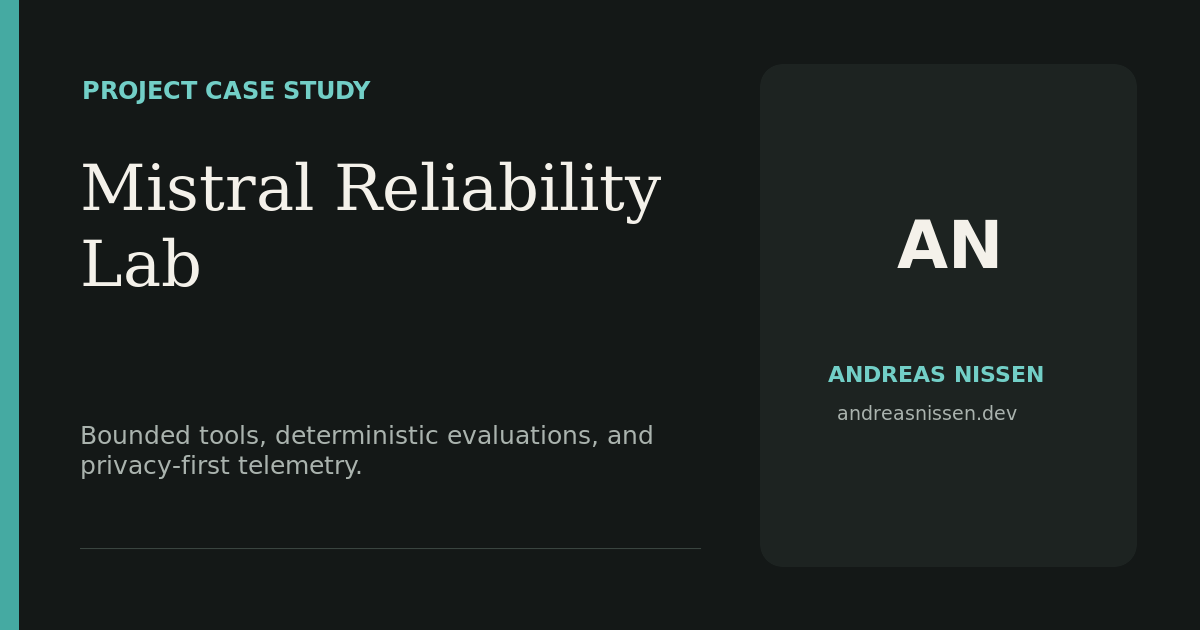
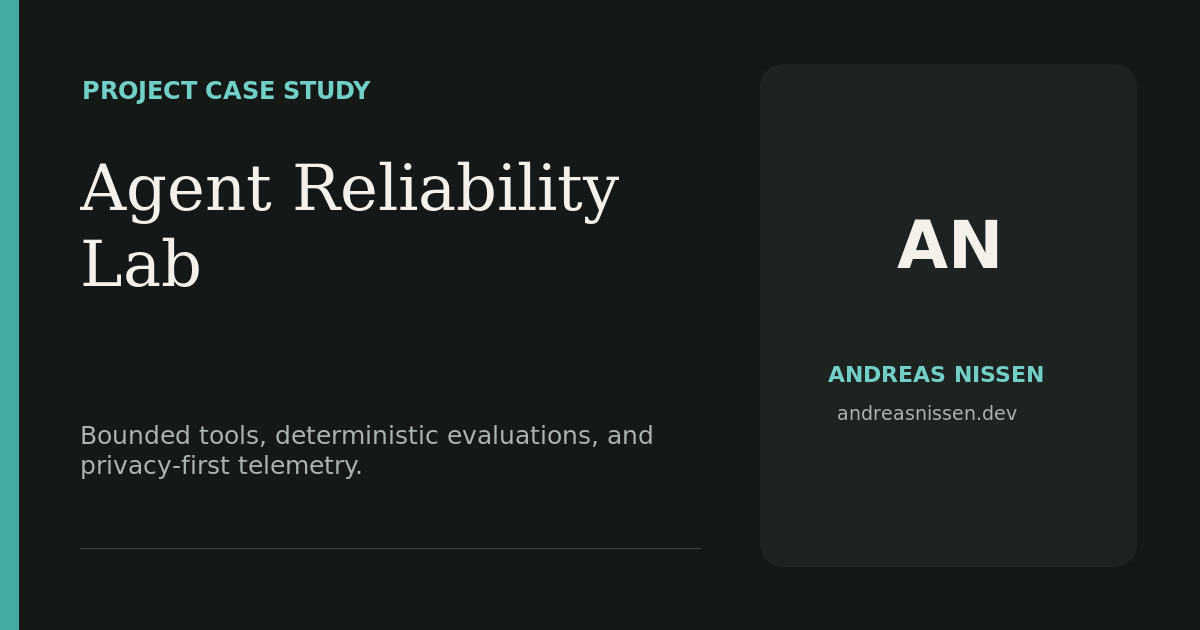
Lead the public evidence path with capability, not a provider name (#45)
Rename the portfolio-facing Mistral Reliability Lab identity to Agent Reliability Lab while preserving accurate provider evidence, update generated and hand-authored assets, remove the stale provider-led card preview, synchronize cross-references, and codify the complete rename sweep.

Changed region(s): [[0.0617, 0.2413, 0.555, 0.3619]]

diff --git a/content/projects/mistral-playground.md b/content/projects/mistral-playground.md
@@ -1,5 +1,5 @@
 ---
-title: "Mistral Reliability Lab"
+title: "Agent Reliability Lab"
 description: "An inspectable Python reference for bounded tool use, provider switching, resilience, observability, and deterministic evaluation."
 role: "Creator and repository owner"
 year: 2026
@@ -7,14 +7,12 @@ weight: 30
 featured: true
 statusLabel: "Reference lab"
 tags:
-  - Mistral
+  - provider switching
   - OpenTelemetry
   - Python
 repoURL: "https://github.com/Andreasniss/Mistral-playground"
-image: "/images/projects/mistral-reliability-lab.png"
-imageAlt: "GitHub repository preview for the Mistral Reliability Lab Python project."
 socialImage: "/images/social/mistral-reliability-lab.png"
-socialImageAlt: "Mistral Reliability Lab, an evidence-led agent reliability reference by Andreas Nissen."
+socialImageAlt: "Agent Reliability Lab, an evidence-led agent reliability reference by Andreas Nissen."
 hideDetailImage: true
 relatedArticleURL: "/writing/agentic-ai-after-the-demo/"
 relatedArticleTitle: "The Hard Part of Agentic AI Starts After the Demo"
@@ -52,7 +50,7 @@ reviewerPath:
 reviewerFallback: "If you cannot run Python locally, inspect the Streamlit interaction test and versioned evaluation cases. They exercise the same credential-free path without presenting it as a live model evaluation."
 reviewerFallbackURL: "https://github.com/Andreasniss/Mistral-playground/blob/main/tests/test_streamlit_app.py"
 architectureImage: "/images/projects/mistral-reliability-architecture.svg"
-architectureAlt: "Mistral Reliability Lab architecture showing the reviewer interface, model boundary, provider choice, validated tool gate, tools, privacy-first telemetry, and offline verification."
+architectureAlt: "Agent Reliability Lab architecture showing the reviewer interface, model boundary, provider choice, validated tool gate, tools, privacy-first telemetry, and offline verification."
 architectureCaption: "The model may propose a tool call. Application code validates and executes only allow-listed tools, while tests and evaluations verify the deterministic boundary without provider credentials."
 evidenceRows:
   - claim: "Tool execution is bounded"
@@ -88,7 +86,7 @@ A model API quickstart proves that a request can return text. It does not prove 
 
 ## What I built
 
-Mistral Reliability Lab is a modular Python reference with a reviewer-first Streamlit interface, a FastAPI surface, opt-in OpenTelemetry tracing, and support for both Mistral's API and local Ollama models. Its credential-free preview lets a reviewer inspect the interaction model without supplying an API key.
+Agent Reliability Lab is a modular Python reference with a reviewer-first Streamlit interface, a FastAPI surface, opt-in OpenTelemetry tracing, and support for both Mistral's API and local Ollama models. Its credential-free preview lets a reviewer inspect the interaction model without supplying an API key.
 
 The model boundary centralizes calls and implements bounded retry behavior for transient failures. Tool execution uses an explicit allow-list and bounded loops. The interface exposes tool names, arguments, results, and multi-turn history while operational logs and traces exclude prompt, response, and tool-result content by default.
 

diff --git a/AGENTS.md b/AGENTS.md
@@ -75,6 +75,8 @@ Use `hugo new content/<section>/<slug>.md` to scaffold from the archetype.
 
 Every article, project, talk, About page, Talks index, and Selected Impact page carries a page-specific 1200 by 630 PNG in `socialImage` plus useful `socialImageAlt`. Generate the current visual system with `scripts/generate-social-images.sh`; do not replace a real product screenshot with generated interface imagery.
 
+**Renaming a page or project is not a Markdown-only edit.** The name is also baked into generated and hand-drawn assets, and a rename that stops at the text layer leaves a reader looking at the old name on the evidence itself. Sweep, in this order: frontmatter `title`, every alt and caption string, cross-references in other sections, the visible heading and `<title>` inside any hand-authored SVG under `static/images/`, the matching `make_card` line in `scripts/generate-social-images.sh`, and the `image` card preview, which `project-card.html` renders on the homepage and the section grid regardless of `hideDetailImage`. A repository social preview used as `image` carries the repository name as its largest text, so a rename that leaves the repository alone strands the old identity on the renamed card; where no honest replacement exists, drop the field rather than fabricate one, since it is optional and decorative. Update the generator before regenerating, because it is the authoritative source for the card: fixing only the PNG leaves the old title in place to be silently restored by the next routine regeneration. Then rerun the generator and confirm it changed only the cards you expected. Keep a provider or vendor name wherever it states a fact about what the project supports; rename the entity, not the evidence.
+
 ## Templates and output formats
 
 Beyond the normal HTML templates in `layouts/_default/` and

diff --git a/design-qa.md b/design-qa.md
@@ -21,7 +21,7 @@ The existing dark LinkedIn-aligned portfolio system is the selected target: char
 - Case study, live demo, repository, related article, and related project destinations are visibly distinct and keyboard-focusable.
 - The About links use labeled destination cards with familiar service icons.
 - Runbook Relay is titled as a WebMCP demo in the index, page title, and metadata.
-- The Mistral case study uses an exact architecture visual, linked proof statistics, a guided reviewer path, a claim-to-proof matrix, and explicit limitations.
+- The Agent Reliability Lab case study uses an exact architecture visual, linked proof statistics, a guided reviewer path, a claim-to-proof matrix, and explicit limitations.
 - Desktop navigation and content hierarchy remain consistent with the selected baseline.
 - Hugo build, content validation, and the GitHub Actions deployment passed.
 
@@ -29,6 +29,6 @@ The existing dark LinkedIn-aligned portfolio system is the selected target: char
 
 - The private 7DayFocus card intentionally has no visual proof image until an approved public-safe demo asset exists.
 - Article visuals are deliberately editorial rather than forced into identical crops on detail pages.
-- The Mistral project card retains its repository preview until a real screenshot can be captured from the reviewed Streamlit application. Generated interface imagery must not be used as a substitute.
+- The Agent Reliability Lab card intentionally omits a preview image because no current application screenshot matches the capability-led name. Generated interface imagery is not used as a substitute.
 
 final result: passed

diff --git a/content/writing/reviewing-ai-built-public-work.md b/content/writing/reviewing-ai-built-public-work.md
@@ -12,7 +12,7 @@ keyPoints:
 proofLinks:
   - label: "Inspect the personal website repository"
     url: "https://github.com/Andreasniss/personal-website"
-  - label: "Review the Mistral Reliability Lab"
+  - label: "Review the Agent Reliability Lab"
     url: "https://github.com/Andreasniss/Mistral-playground"
 socialImage: "/images/social/reviewing-ai-built-work.png"
 socialImageAlt: "How I Review AI-Built Public Work Without Outsourcing Judgment, an article by Andreas Nissen."
@@ -43,7 +43,7 @@ Before implementation, I define the shortest sentence a skeptical reviewer shoul
 
 For Runbook Relay, the claim is not “a production incident system.” It is that a deterministic WebMCP demo can expose bounded tools, keep approval human-only, fail closed before approval, and make the action trail visible.
 
-For the Mistral Reliability Lab, the claim is not “Mistral is safe” or “the application is production ready.” It is that a compact reference can demonstrate allow-listed tools, bounded retries, metadata-only telemetry, credential-free regression tests, and a deterministic evaluation contract.
+For the Agent Reliability Lab, the claim is not “Mistral is safe” or “the application is production ready.” It is that a compact reference can demonstrate allow-listed tools, bounded retries, metadata-only telemetry, credential-free regression tests, and a deterministic evaluation contract.
 
 The narrower claim makes the evidence testable. It also prevents the README from drifting into marketing language the repository cannot support.
 

diff --git a/content/impact/_index.md b/content/impact/_index.md
@@ -9,8 +9,8 @@ I have spent more than 15 years working across technology, architecture, and cus
 
 ## Public systems people can inspect
 
-- **Mistral Reliability Lab:** built and maintain a Python reference with 26 credential-free tests, six deterministic evaluation cases, bounded tool execution, privacy-first telemetry, and locked-dependency auditing.
-- **Runbook Relay:** built and maintain a deterministic WebMCP control room with five bounded tools, a human-only approval gate, visible receipts, and ten contract tests.
+- **Runbook Relay:** built and maintain a deterministic WebMCP control room with five bounded tools, a human-only approval gate, visible receipts, and eleven contract tests.
+- **Agent Reliability Lab:** built and maintain a Python reference with 26 credential-free tests, six deterministic evaluation cases, bounded tool execution, privacy-first telemetry, and locked-dependency auditing.
 - **Public technical writing:** maintain a canonical long-form archive that connects architecture arguments to inspectable demonstrations and source code.
 
 ## Enterprise AI delivery

diff --git a/content/writing/agentic-ai-after-the-demo.md b/content/writing/agentic-ai-after-the-demo.md
@@ -10,7 +10,7 @@ keyPoints:
   - "Reliability, security, cost, and operations need explicit controls and tests."
   - "The production boundary should stay visible in architecture and evidence."
 proofLinks:
-  - label: "Inspect the Mistral Reliability Lab"
+  - label: "Inspect the Agent Reliability Lab"
     url: "https://github.com/Andreasniss/Mistral-playground"
 socialImage: "/images/social/agentic-ai-after-demo.png"
 socialImageAlt: "The Hard Part of Agentic AI Starts After the Demo, an article by Andreas Nissen."
@@ -25,7 +25,7 @@ draft: false
 image: "/images/articles/agentic-ai-after-demo.jpg"
 imageAlt: "Original LinkedIn infographic about the engineering work required after an agentic AI demo succeeds."
 relatedProjectURL: "/projects/mistral-playground/"
-relatedProjectTitle: "Mistral Reliability Lab"
+relatedProjectTitle: "Agent Reliability Lab"
 series: "Reliable Agent Systems"
 seriesOrder: 1
 ---

diff --git a/content/talks/reliable-agents-in-production.md b/content/talks/reliable-agents-in-production.md
@@ -44,5 +44,5 @@ Participants leave with a concrete architecture checklist and a clearer distinct
 The original learning materials are not published here. The same public-safe engineering argument can be inspected through:
 
 - [The Hard Part of Agentic AI Starts After the Demo](/writing/agentic-ai-after-the-demo/)
-- [Mistral Reliability Lab](/projects/mistral-playground/)
+- [Agent Reliability Lab](/projects/mistral-playground/)
 - [Context and Control Are Different Layers](/writing/context-and-control/)
